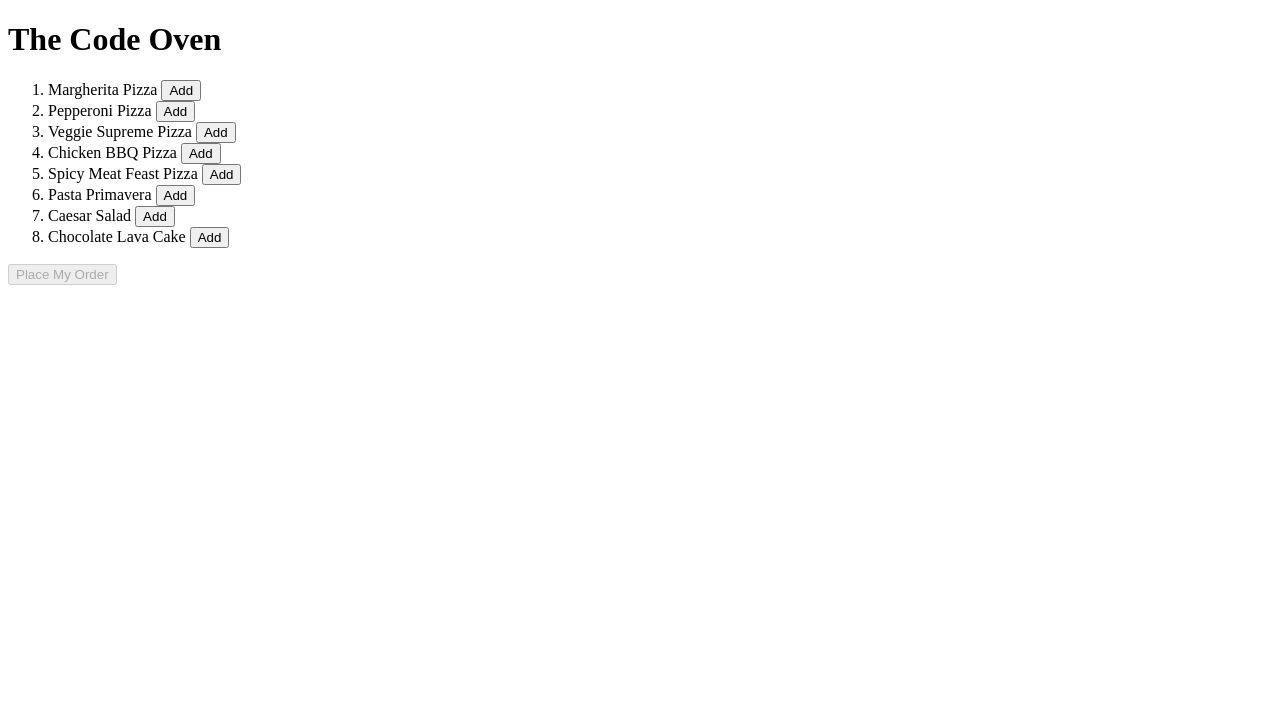
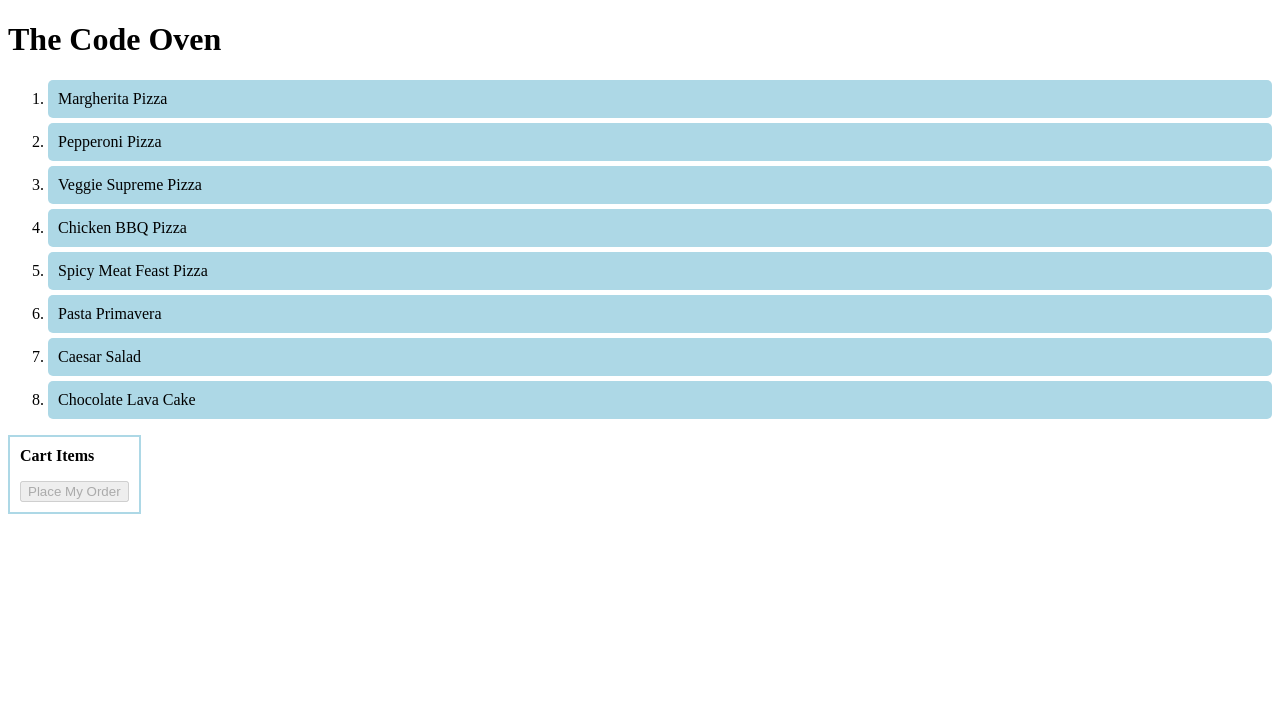
code refactoring

diff --git a/src/components/MenuList.tsx b/src/components/MenuList.tsx
@@ -16,22 +16,18 @@ type MenuListType = {
 
 const MenuList = ({ onAddMenuItem }: MenuListType) => {
   return (
-    <div>
-      <ol>
-        {pizzas.map((pizza, index) => (
-          <li key={index}>
-            {pizza}{" "}
-            <button
-              onClick={() => {
-                onAddMenuItem(pizza);
-              }}
-            >
-              Add
-            </button>
-          </li>
-        ))}
-      </ol>
-    </div>
+    <ol>
+      {pizzas.map((pizza, index) => (
+        <li
+          key={index}
+          onClick={() => {
+            onAddMenuItem(pizza);
+          }}
+        >
+          {pizza}{" "}
+        </li>
+      ))}
+    </ol>
   );
 };
 

diff --git a/public/globals.css b/public/globals.css
@@ -5,3 +5,27 @@ p {
 a {
   color: blue;
 }
+
+li {
+  cursor: pointer;
+  padding: 10px;
+  background-color: lightblue;
+  margin: 5px 0;
+  border-radius: 5px;
+}
+
+li:hover {
+  background-color: lightcoral;
+}
+
+.bordered-div {
+  border: 2px solid lightblue;
+  padding: 10px;
+  display: inline-block;
+}
+
+.bordered-div-label {
+  font-weight: bold;
+  margin-bottom: 5px;
+  display: block;
+}

diff --git a/src/components/ShoppingCart.tsx b/src/components/ShoppingCart.tsx
@@ -2,7 +2,8 @@ import React from "react";
 
 const ShoppingCart = ({ cartItems }: { cartItems: string[] }) => {
   return (
-    <div data-testid="shopping-cart">
+    <div data-testid="shopping-cart" className="bordered-div">
+      <span className="bordered-div-label">Cart Items</span>
       <ol>
         {cartItems.map((cartItem) => (
           <li key={cartItem}>{cartItem}</li>

diff --git a/src/__tests__/PizzaShop.spec.ts b/src/__tests__/PizzaShop.spec.ts
@@ -1,7 +1,7 @@
 import { test, expect } from "@playwright/test";
 
 test("should load the home page", async ({ page }) => {
-  await page.goto("http://localhost:3000");
+  await page.goto("http://localhost:8080");
 
   await page.screenshot({
     path: "./__tests__/screenshots/PizzaShop.png",
